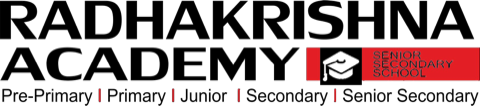
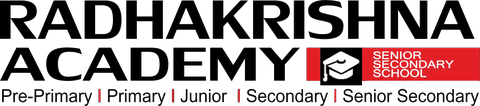
Report card header + chart + table sizing; wordmark strip text in white
Wordmark: the 'SENIOR SECONDARY SCHOOL' text inside the red strip is now
white (all three served copies). Header: crest 62px, no address line under
the wordmark. Chart drawn taller so the column matches the co-scholastic
list. Marks table +1.5px (compact variant held at 11px to fit width).
Signature padding eased so the interim card stays inside the page.

diff --git a/admin/lib/cardRender.js b/admin/lib/cardRender.js
@@ -33,8 +33,8 @@ const CSS = `
   body{margin:0;background:#e9e7e0;font-family:Inter,system-ui,-apple-system,"Segoe UI",sans-serif;color:#1A1A1A;font-variant-numeric:tabular-nums;-webkit-print-color-adjust:exact;print-color-adjust:exact}
   .page{width:210mm;height:297mm;margin:0 auto;background:#FAF7F0;color:#1A1A1A;position:relative;padding:10mm 12mm 8mm;display:flex;flex-direction:column;gap:6px;overflow:hidden}
   .hd{display:flex;align-items:center;gap:12px;border-bottom:1px solid #D8D2C2;padding-bottom:7px}
-  .hd img.crest{width:48px;height:48px;object-fit:contain;flex-shrink:0}
-  .school img.wordmark{display:block;height:44px;width:auto;max-width:260px;margin-bottom:2px}
+  .hd img.crest{width:62px;height:62px;object-fit:contain;flex-shrink:0}
+  .school img.wordmark{display:block;height:50px;width:auto;max-width:300px}
   .school b{display:block;font-family:Lora,Georgia,serif;font-size:22px;letter-spacing:.06em;line-height:1.1}
   .school span{font-size:12px;color:#1A1A1A}
   .meta{margin-left:auto;text-align:right;font-family:"JetBrains Mono",ui-monospace,monospace;font-size:10px;color:#1A1A1A;line-height:1.6;white-space:nowrap}
@@ -56,24 +56,24 @@ const CSS = `
   .metrics .v{font-family:Lora,Georgia,serif;font-size:19px;font-weight:600;line-height:1.15;white-space:nowrap}
   .metrics .v.red{color:#7B1F2B}
   .metrics .k{font-size:9.5px;letter-spacing:.12em;text-transform:uppercase;color:#1A1A1A}
-  table{width:100%;border-collapse:collapse;font-size:12.5px}
-  th{font-size:9.5px;letter-spacing:.08em;text-transform:uppercase;color:#1A1A1A;text-align:center;padding:4px 3px;border-bottom:1px solid #1A1A1A;line-height:1.3;font-weight:600;vertical-align:bottom}
+  table{width:100%;border-collapse:collapse;font-size:14px}
+  th{font-size:11px;letter-spacing:.08em;text-transform:uppercase;color:#1A1A1A;text-align:center;padding:4px 3px;border-bottom:1px solid #1A1A1A;line-height:1.3;font-weight:600;vertical-align:bottom}
   th.l,td.l{text-align:left}
   th.band{border-bottom:1px solid #D8D2C2;color:#1A1A1A;letter-spacing:.14em;padding-bottom:2px}
   th.sep,td.sep{border-left:1px solid #D8D2C2}
   td{padding:5.5px 3px;text-align:center;border-bottom:1px solid #D8D2C2;color:#1A1A1A}
   tbody tr:nth-child(even) td{background:rgba(123,31,43,.035)}
-  td.sub{font-weight:600;font-size:13px;white-space:nowrap}
-  td.sub small{display:block;font-weight:400;font-size:10.5px;color:#1A1A1A}
+  td.sub{font-weight:600;font-size:14.5px;white-space:nowrap}
+  td.sub small{display:block;font-weight:400;font-size:12px;color:#1A1A1A}
   td.t{font-weight:700}
   td.g{color:#7B1F2B;font-weight:700}
   td.dim{color:#1A1A1A}
   td.fail{color:#7B1F2B;font-weight:700}
-  td small.mm{color:#1A1A1A;font-size:10px}
-  table.dense{font-size:10.5px}
-  table.dense td{padding:4px 1.5px}
-  table.dense th{letter-spacing:.02em;padding:3px 1.5px;font-size:8.5px}
-  table.dense td.sub{font-size:11px;white-space:normal}
+  td small.mm{color:#1A1A1A;font-size:11.5px}
+  table.dense{font-size:11px}
+  table.dense td{padding:4px 1px}
+  table.dense th{letter-spacing:0;padding:3px 1px;font-size:9px}
+  table.dense td.sub{font-size:12.5px;white-space:normal}
   table.roomy td{padding:8px 3px}
   tr.sum td{border-top:1px solid #1A1A1A;border-bottom:0;font-weight:700;background:none!important;white-space:nowrap}
   td.t,td.g{white-space:nowrap}
@@ -97,7 +97,7 @@ const CSS = `
   .box .result{font-family:Lora,Georgia,serif;font-size:16px;font-weight:700;color:#7B1F2B;margin-top:2px;letter-spacing:.04em}
   .box .note{font-size:11px;color:#1A1A1A;margin-top:5px}
   .key{font-size:10px;color:#1A1A1A;line-height:1.5}
-  .sig{display:flex;justify-content:space-between;margin-top:auto;padding-top:22mm;font-size:11px;letter-spacing:.12em;text-transform:uppercase;color:#1A1A1A}
+  .sig{display:flex;justify-content:space-between;margin-top:auto;padding-top:14mm;font-size:11px;letter-spacing:.12em;text-transform:uppercase;color:#1A1A1A}
   .sig div{border-top:1px solid #1A1A1A;width:44mm;text-align:center;padding-top:4px}
   .foot{display:flex;justify-content:space-between;font-family:"JetBrains Mono",ui-monospace,monospace;font-size:9.5px;color:#1A1A1A}
   @media print{body{background:#fff}.page{margin:0;page-break-after:always}@page{size:A4 portrait;margin:0}}
@@ -143,7 +143,7 @@ export function renderCardBody(card) {
 function recordNo(card) { return `RC/${card.student?.branchCode || 'RKA'}/${card.sessionCode}/${card.cardKey}/${card.student?.admissionNo || dash}` }
 function header(card) {
   return `<div class="hd"><img class="crest" src="${assetBase()}/crest-card.png" alt="" onerror="this.style.visibility='hidden'">
-    <div class="school"><img class="wordmark" src="${assetBase()}/banner-card.png" alt="RADHAKRISHNA ACADEMY" onerror="this.replaceWith(Object.assign(document.createElement('b'),{textContent:'RADHAKRISHNA ACADEMY'}))"><span>${esc(ADDRESS)}${card.student?.branchName ? ' · ' + esc(card.student.branchName) : ''}</span></div>
+    <div class="school"><img class="wordmark" src="${assetBase()}/banner-card.png" alt="RADHAKRISHNA ACADEMY" onerror="this.replaceWith(Object.assign(document.createElement('b'),{textContent:'RADHAKRISHNA ACADEMY'}))"></div>
     <div class="meta">AFFILIATION <b>${AFFILIATION}</b><br>SCHOOL CODE <b>${SCHOOL_CODE}</b><br>RECORD ${esc(recordNo(card))}</div></div>`
 }
 function titleStrip(card, shown) {
@@ -295,7 +295,7 @@ function chart(card, shown, final) {
   if (!rows.length) return ''
   const perRow = (r, k) => r.byTerm[k]?.max || null
   const per = card.family === 'secondary_annual' ? (card.plan.subjectTotal || 100) : (Math.max(...rows.map((r) => perRow(r, shown[0]?.key) || 0)) || 100)
-  const W = 400, base = 108, H = 94, n = rows.length, gw = W / n
+  const W = 400, base = 150, H = 134, n = rows.length, gw = W / n
   const y = (v) => base - Math.max(0, Math.min(per, v)) * H / per
   const grid = [25, 50, 75, 100].map((p) => { const v = Math.round(per * p / 100); return `<line x1="0" x2="${W}" y1="${y(v)}" y2="${y(v)}" stroke="#E8E4D8" stroke-width=".6"/><text x="0" y="${y(v) - 1.5}" font-size="8" fill="#1A1A1A" font-family="Inter,sans-serif">${v}</text>` }).join('')
   const labels = rows.map((r, i) => `<text x="${i * gw + gw / 2}" y="${base + 9}" text-anchor="middle" font-size="8" fill="#1A1A1A" font-family="Inter,sans-serif">${esc(shortName(r.subject).toUpperCase())}</text>`).join('')
@@ -322,7 +322,7 @@ function chart(card, shown, final) {
     legend = `<span><i style="background:#7B1F2B"></i>${esc((card.student?.name || 'Student').split(' ')[0])}</span>${hasSection ? '<span><i style="background:#D8D2C2"></i>Section average</span><span><i style="border:1px solid #1A1A1A;background:#FAF7F0"></i>Section highest</span>' : ''}`
     h4 = `${esc(shown[0]?.label || '')} · marks out of ${per}${hasSection ? ' against the section' : ''}`
   }
-  return `<h4>${h4}</h4><svg viewBox="0 0 400 124">${grid}${bars}<line x1="0" x2="${W}" y1="${base}" y2="${base}" stroke="#1A1A1A" stroke-width=".8"/>${labels}</svg><div class="legend">${legend}</div>`
+  return `<h4>${h4}</h4><svg viewBox="0 0 400 166">${grid}${bars}<line x1="0" x2="${W}" y1="${base}" y2="${base}" stroke="#1A1A1A" stroke-width=".8"/>${labels}</svg><div class="legend">${legend}</div>`
 }
 
 // ── co-scholastic list (graded subjects, areas, discipline, height/weight) ──
